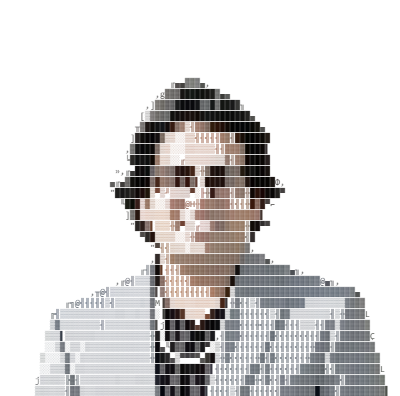
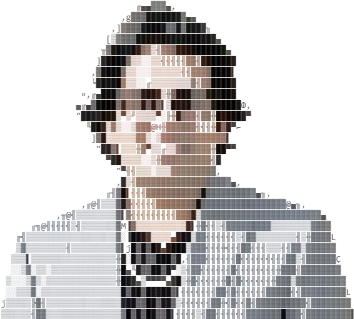
Use transparent portrait and wrap About Me text around it

diff --git a/README.md b/README.md
@@ -1,13 +1,9 @@
-<table>
-<tr>
-<td width="40%" valign="middle"><img src="assets/portrait.png" alt="ASCII portrait of Rohan" width="100%"></td>
-<td width="60%" valign="middle">
+<img src="assets/portrait.png" alt="ASCII portrait of Rohan" align="left" width="260">
 
-# 💫 About Me:
+### 💫 About Me:
 Hey! It's Rohan here.<br><br>Projects that I'm currently working on include performing ETL processes on various datasets (through Kaggle and other Live APIs) for analysis to be presented on Power BI dashboards.<br><br>I'm looking to get more familiar with machine learning algorithms for use in data science.<br><br>Currently learning a wide variety of niche software back-end skills for my toolset.<br><br>Ask me anything about Blockchains, I'm attempting to develop one!<br><br>Fun fact! I love hanging out with the chess community and am always ready for a match so if you're looking to verse someone, message me on Chess.com! It's RoaringRohan.<br>
-</td>
-</tr>
-</table>
+
+<br clear="left">
 
 ## 🌐 Socials:
 [![LinkedIn](https://img.shields.io/badge/LinkedIn-%230077B5.svg?logo=linkedin&logoColor=white)](https://www.linkedin.com/in/dattarohan/) 
